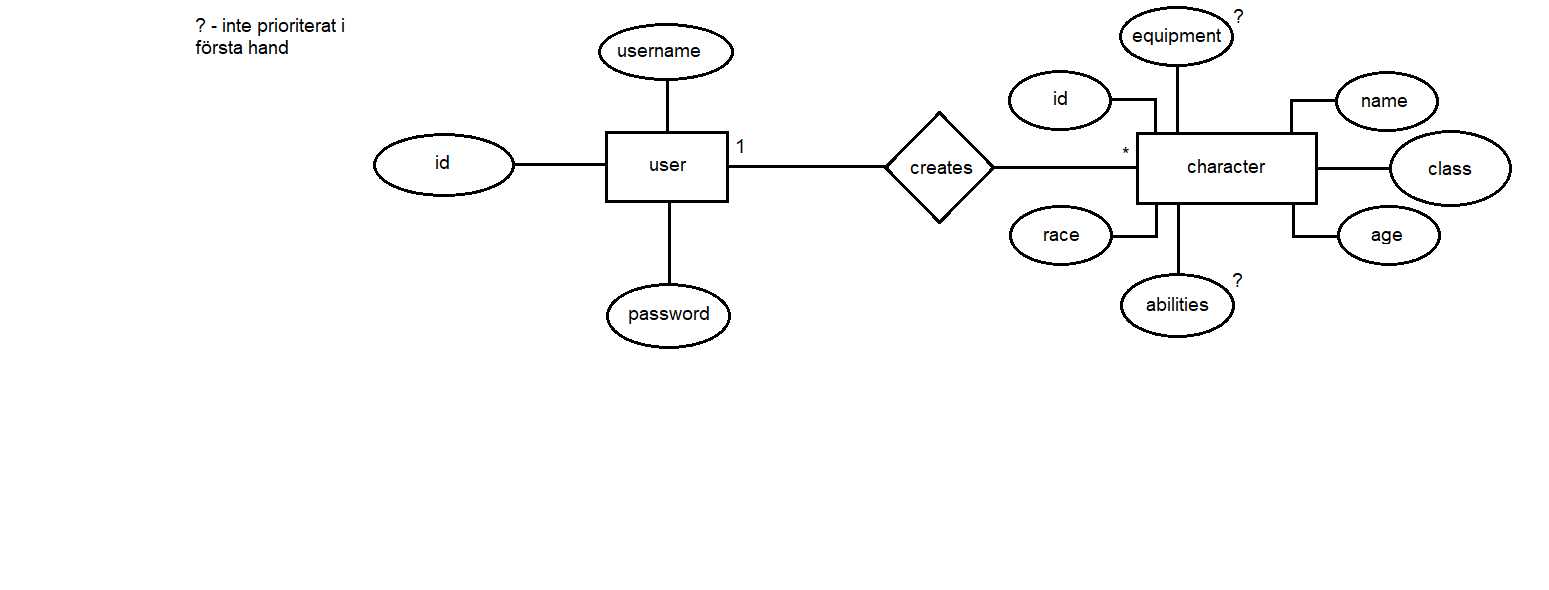
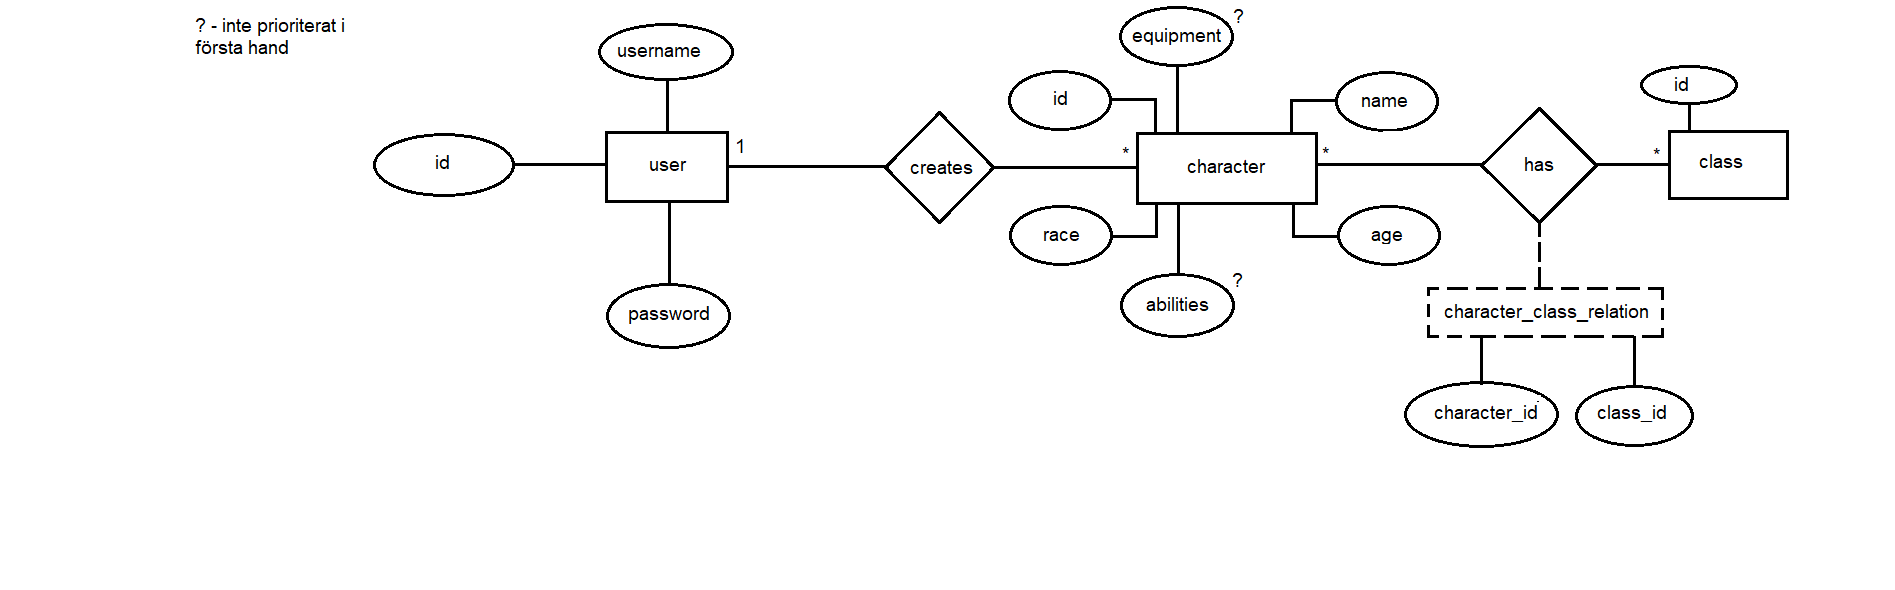
Uppdaterat ER-diagram samt databas. Utvecklat register/login funktioner.

diff --git a/app.rb b/app.rb
@@ -11,3 +11,35 @@ end
 get('/showlogin') do
     slim(:login)
 end
+
+post('/user/new') do
+    username = params[:username]
+    password = params[:password]
+    password_confirm = params[:password_confirm]
+
+    if (password == password_confirm)
+        password_digest = BCrypt::Password.create(password)
+        db = SQLite3::Database.new('db/charactercreator.db')
+        db.execute("INSERT INTO user(username,password) VALUES(?,?)",username,password_digest)
+        redirect('/')
+    else
+        "The passwords do not match!"
+    end
+end
+
+post('/login') do
+    username = params[:username]
+    password = params[:password]
+    db = SQLite3::Database.new('db/charactercreator.db')
+    db.results_as_hash = true
+    result = db.execute("SELECT * FROM user WHERE username = ?",username).first
+    password = result["password"]
+    id = result ["id"]
+
+    if BCrypt::Password.new(password) == password
+        session[:id] = id
+        redirect('/creator')
+    else
+        "Wrong password!"
+    end
+end

diff --git a/Repetition 2/distribution_calc.rb b/Repetition 2/distribution_calc.rb
@@ -1,0 +1,29 @@
+file = File.open("foods.txt", "r")
+file_content = file.readlines
+total = 0
+fruits = 0
+beverages = 0
+vegetables = 0
+i = 0
+while i < file_content.size
+    file_content.each do |line|
+        if "#Fruit".in? file_content
+            fruits += 1
+            total += 1
+        elsif "#Beverage".in? file_content
+            beverages += 1
+            total += 1
+        elsif "#Vegetable".in? file_content
+            vegetables += 1
+            total += 1
+        end
+    end
+    i += 1 
+end
+puts "Total: #{total}"
+puts "Fruits: #{fruits}"
+puts "Beverages: #{beverages}"
+puts "Vegetables: #{vegetables}"
+
+
+# Fastnade på den här...

diff --git a/Repetition 2/programmering.rb b/Repetition 2/programmering.rb
@@ -1,0 +1,19 @@
+def max_of_two(num1,num2)
+    if num1 > num2
+        return num1
+    else
+        return num2
+    end
+end
+
+def delete_char(string,char)
+    i = 0
+    newstring = ""
+    while i < string.length
+        if string[i] != char
+            newstring << string[i]
+        end
+        i += 1
+    end
+    return newstring
+end
